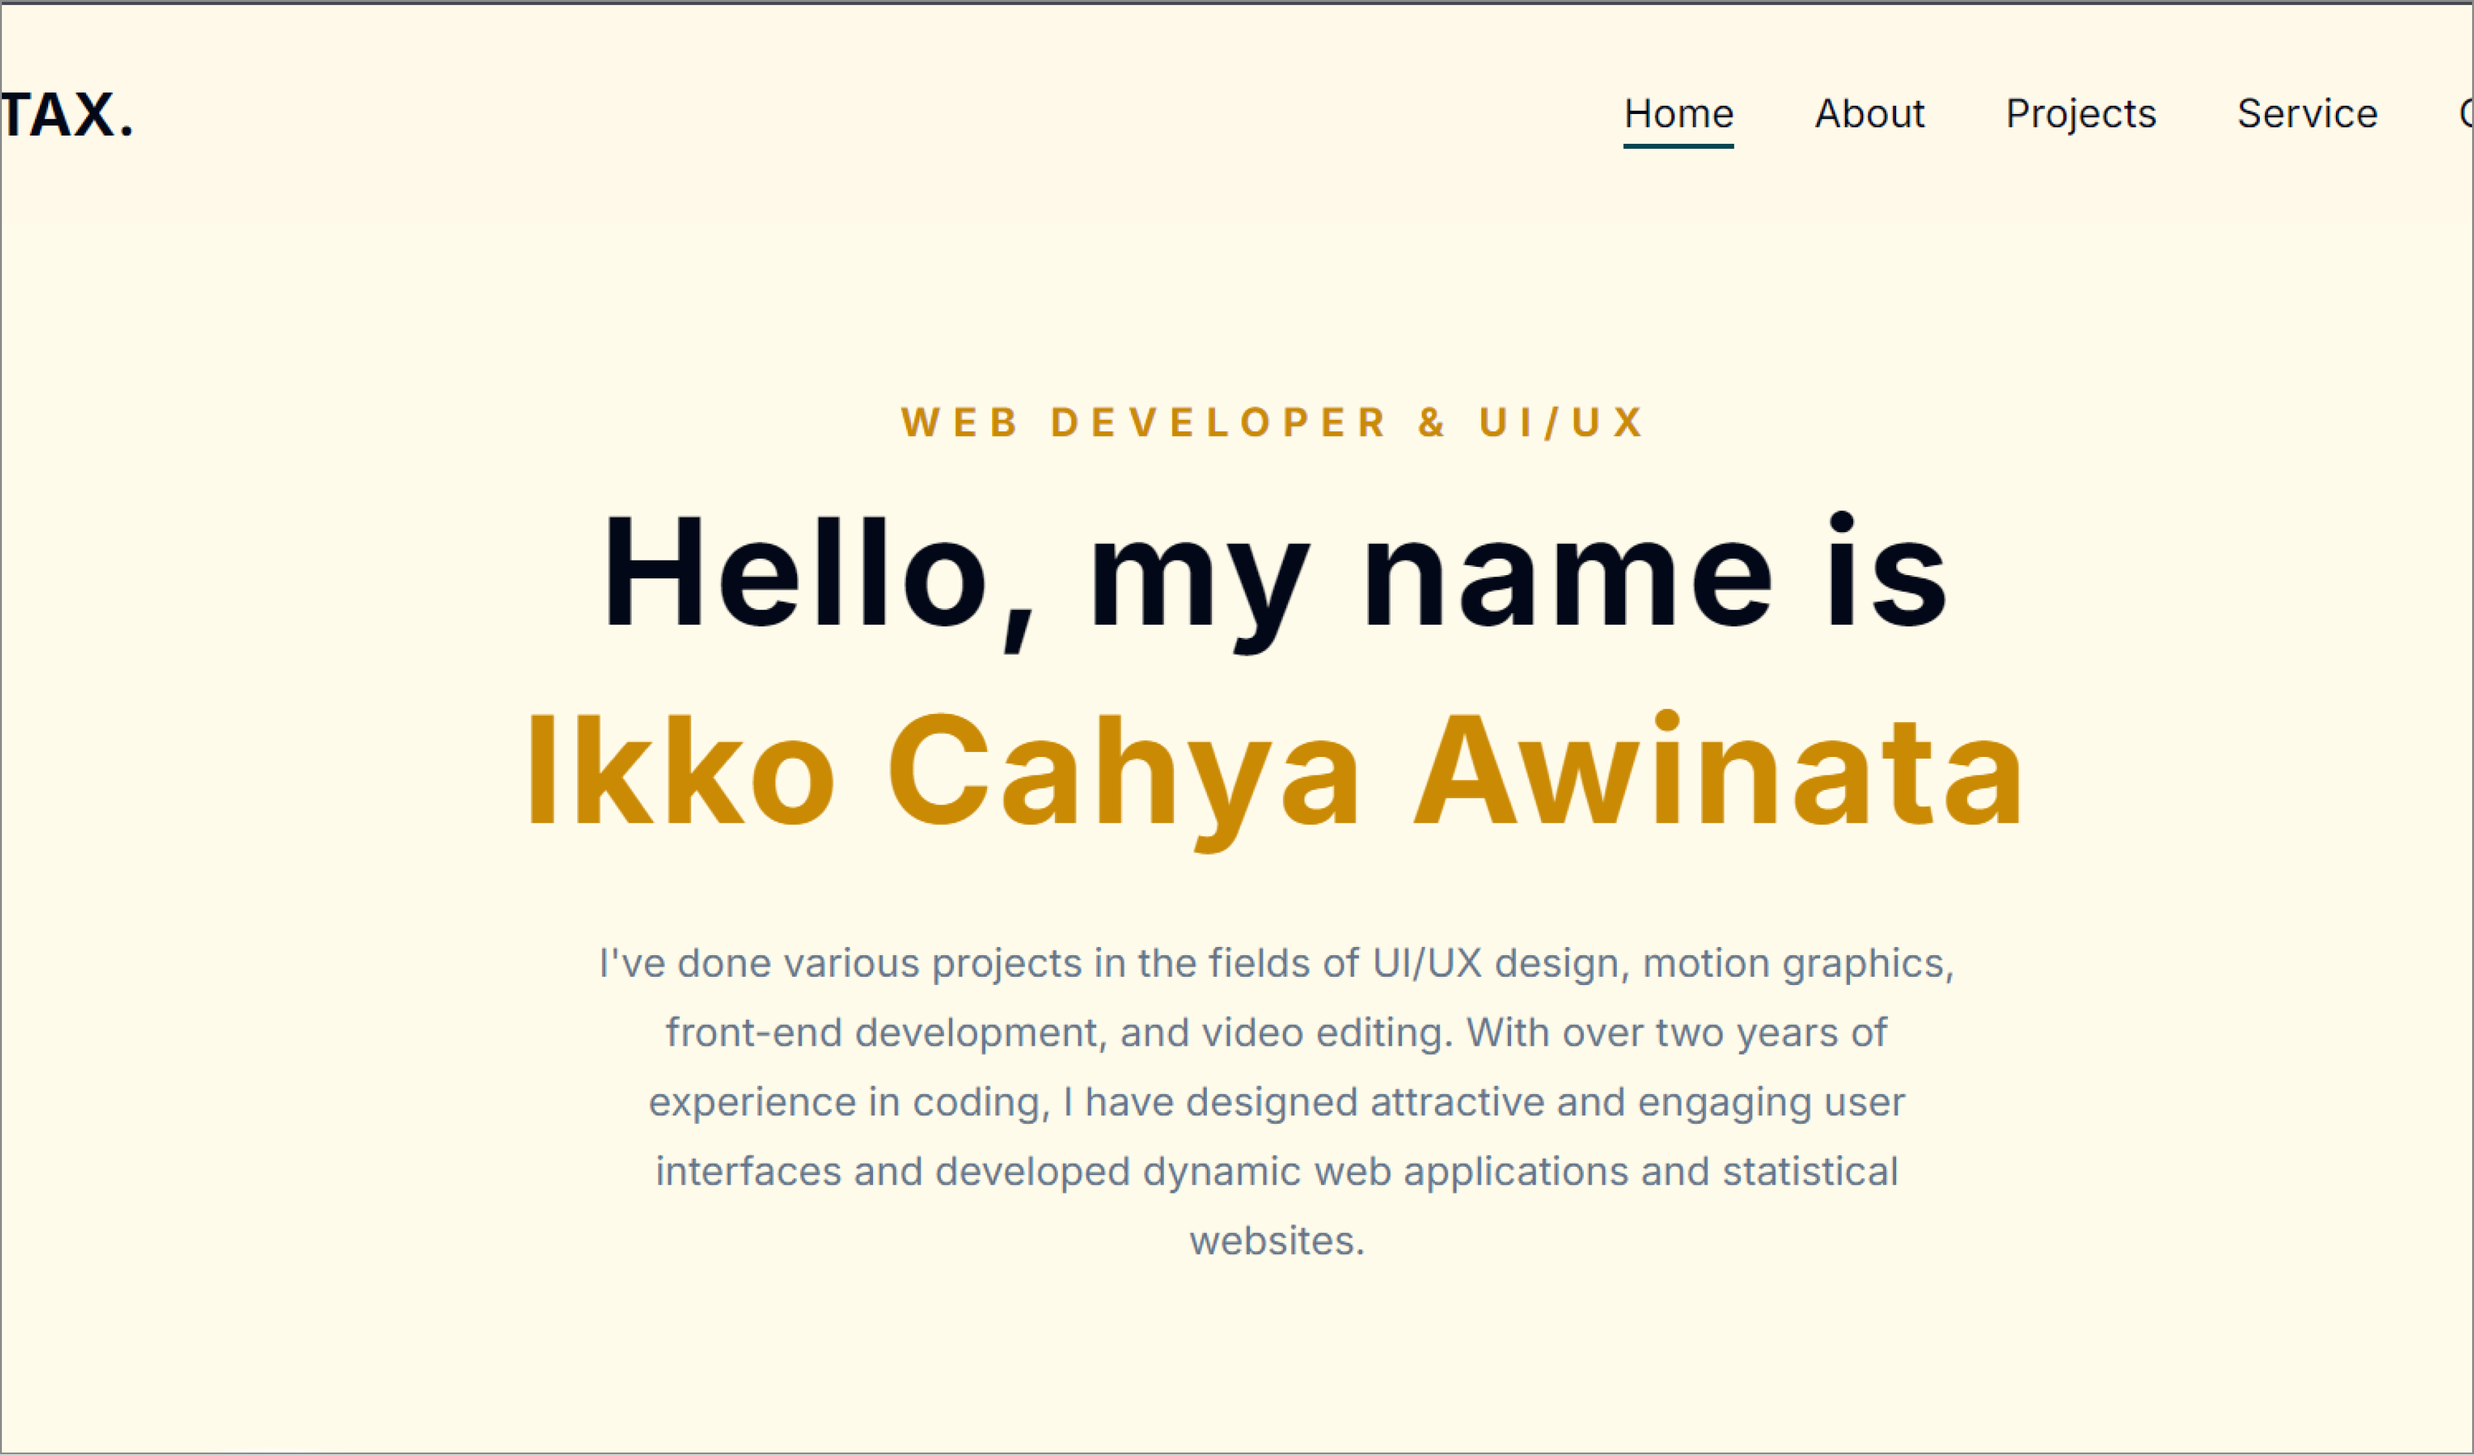
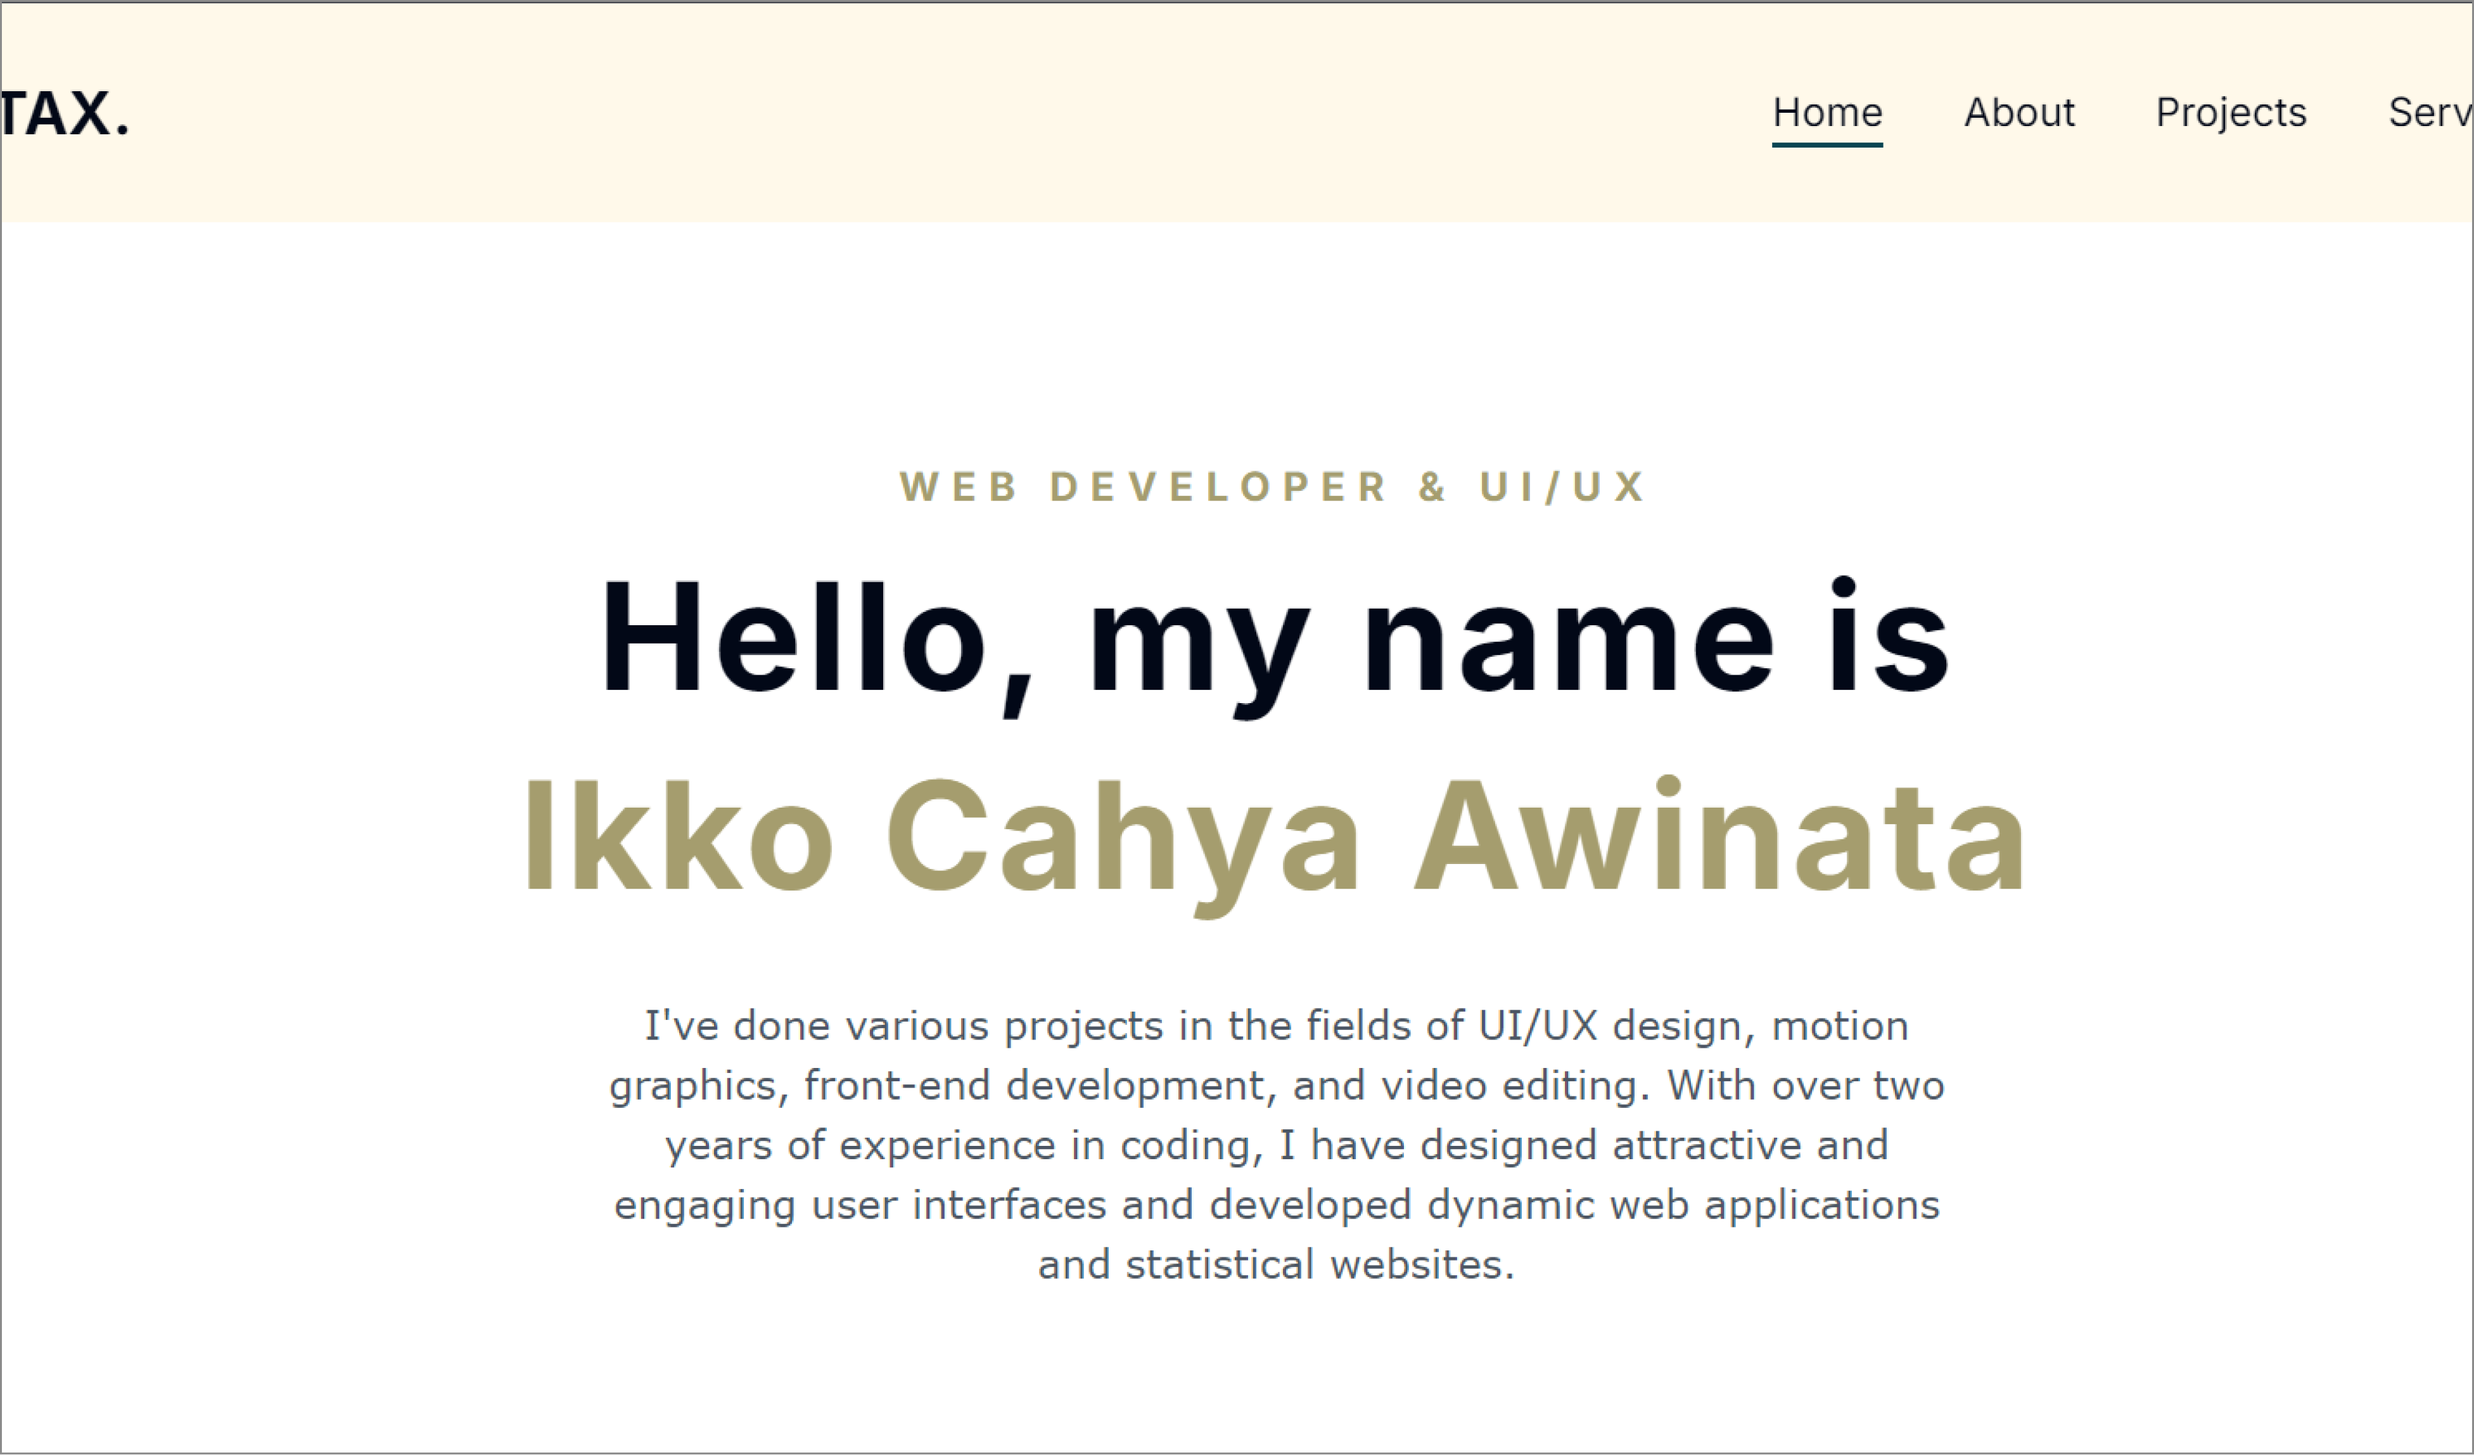
fiks

Changed region(s): [[0.1875, 0.2782, 0.8435, 0.8964], [0.6561, 0.0618, 0.9997, 0.1236], [0.0, 0.0618, 0.0625, 0.0927]]

diff --git a/app/design2/page.jsx b/app/design2/page.jsx
@@ -1,10 +1,79 @@
+// "use client"; // This should be at the top of the file
+
+// import { Button } from "@/components/ui/button";
+// import Link from "next/link"; // Import Link for navigation
+// import { useState } from "react"; // Import useState to manage state
+// import { ChevronRight } from "lucide-react"; // Import ChevronRight icon
+// import Card from "@/components/Card"; // If you're using this, ensure it's used in the component
+// import "./computer.css";
+// import Image from "next/image";
+
+// const Candidates = () => {
+//   // State for storing the clicked button information
+//   const [clickedButton, setClickedButton] = useState(null);
+
+//   return (
+//     <>
+//       <section className="py-2 md:py-6 xl:py-10 h-[140vh] md:h-[120vh] xl:h-[140vh] xl:pt-10 bg-no-repeat bg-bottom dark:bg-none relative flex items-center justify-center">
+//         <div className="flex flex-col items-center text-center">
+//           {/* Image with Description */}
+//           <div className="w-full max-w-md mx-auto p-4 md:p-6 xl:p-8">
+//             <img
+//               src="./hero/port3.png"
+//               alt="Descriptive Alt Text"
+//               className="w-full h-auto object-cover"
+//             />
+//             <p className="mt-4 md:mt-6 xl:mt-8 text-md font-light text-gray-700 dark:text-gray-300 text-justify">
+//               Organized by the GEMA UNESA Campus Press Institute with the theme
+//               "Take Your Infographic to the Next Level with Illustrations"
+//             </p>
+//             <p className="mt-8 md:mt-10 xl:mt-12 text-sm font-bold text-gray-700 dark:text-gray-300 text-justify">
+//               • 25 June 2022
+//             </p>
+//           </div>
+
+//           <div className="absolute top-4 left-4 md:top-8 md:left-8">
+//             <Link href="/projects">
+//               <Button
+//                 variant="outline"
+//                 size="icon"
+//                 className="flex items-center bg-gray-300 dark:bg-gray-700"
+//               >
+//                 <ChevronRight className="h-4 w-4 transform rotate-180" />
+//               </Button>
+//             </Link>
+//           </div>
+//         </div>
+//       </section>
+
+//       {/* Additional Section */}
+//       <section className="py-2 md:py-4 xl:py-40 h-auto md:h-auto xl:h-auto xl:pt-0 bg-no-repeat bg-bottom dark:bg-none relative flex items-center justify-center">
+//         <div className="w-full max-w-xs sm:max-w-sm md:max-w-md lg:max-w-lg mx-auto p-1 md:p-3 xl:p-5">
+//           <img
+//             src="./hero/sertif1.png"
+//             alt="Another Descriptive Alt Text"
+//             className="w-full h-auto object-cover"
+//           />
+//           <p className="mt-4 md:mt-6 xl:mt-8 text-md font-light text-gray-700 dark:text-gray-300 text-justify">
+//             Organized by the GEMA UNESA Campus Press Institute with the theme
+//             "Take Your Infographic to the Next Level with Illustrations"
+//           </p>
+//         </div>
+//       </section>
+//     </>
+//   );
+// };
+
+// export default Candidates;
+
+
+
 "use client"; // This should be at the top of the file
 
 import { Button } from "@/components/ui/button";
 import Link from "next/link"; // Import Link for navigation
 import { useState } from "react"; // Import useState to manage state
 import { ChevronRight } from "lucide-react"; // Import ChevronRight icon
-import Card from "@/components/Card"; // If you're using this, ensure it's used in the component
 import "./computer.css";
 import Image from "next/image";
 
@@ -14,22 +83,28 @@ const Candidates = () => {
 
   return (
     <>
-      <section className="py-2 md:py-6 xl:py-10 h-[140vh] md:h-[120vh] xl:h-[140vh] xl:pt-10 bg-no-repeat bg-bottom dark:bg-none relative flex items-center justify-center">
+      <section className="py-2 md:py-4 xl:py-6 h-[140vh] md:h-[120vh] xl:h-[130vh] xl:pt-8 bg-no-repeat bg-bottom dark:bg-none relative flex items-center justify-center">
         <div className="flex flex-col items-center text-center">
           {/* Image with Description */}
-          <div className="w-full max-w-md mx-auto p-4 md:p-6 xl:p-8">
+          <div className="w-full max-w-md mx-auto p-3 md:p-4 xl:p-6">
             <img
               src="./hero/port3.png"
               alt="Descriptive Alt Text"
               className="w-full h-auto object-cover"
             />
-            <p className="mt-4 md:mt-6 xl:mt-8 text-md font-light text-gray-700 dark:text-gray-300 text-justify">
+            <p className="mt-4 md:mt-5 xl:mt-6 text-md font-light text-gray-700 dark:text-gray-300 text-justify">
               Organized by the GEMA UNESA Campus Press Institute with the theme
               "Take Your Infographic to the Next Level with Illustrations"
             </p>
-            <p className="mt-8 md:mt-10 xl:mt-12 text-sm font-bold text-gray-700 dark:text-gray-300 text-justify">
+            <img
+            src="./hero/sertif1.png"
+            alt="Another Descriptive Alt Text"
+            className="w-full h-auto object-cover"
+          />
+            <p className="mt-6 md:mt-8 xl:mt-10 text-sm font-bold text-gray-700 dark:text-gray-300 text-justify">
               • 25 June 2022
             </p>
+            
           </div>
 
           <div className="absolute top-4 left-4 md:top-8 md:left-8">
@@ -47,17 +122,17 @@ const Candidates = () => {
       </section>
 
       {/* Additional Section */}
-      <section className="py-2 md:py-4 xl:py-40 h-auto md:h-auto xl:h-auto xl:pt-0 bg-no-repeat bg-bottom dark:bg-none relative flex items-center justify-center">
-        <div className="w-full max-w-xs sm:max-w-sm md:max-w-md lg:max-w-lg mx-auto p-1 md:p-3 xl:p-5">
-          <img
+      <section className="py-2 md:py-4 xl:py-6 h-auto md:h-auto xl:h-auto xl:pt-0 bg-no-repeat bg-bottom dark:bg-none relative flex items-center justify-center">
+        <div className="w-full max-w-xs sm:max-w-sm md:max-w-md lg:max-w-lg mx-auto p-2 md:p-3 xl:p-4">
+          {/* <img
             src="./hero/sertif1.png"
             alt="Another Descriptive Alt Text"
             className="w-full h-auto object-cover"
-          />
-          <p className="mt-4 md:mt-6 xl:mt-8 text-md font-light text-gray-700 dark:text-gray-300 text-justify">
+          /> */}
+          {/* <p className="mt-4 md:mt-5 xl:mt-6 text-md font-light text-gray-700 dark:text-gray-300 text-justify">
             Organized by the GEMA UNESA Campus Press Institute with the theme
             "Take Your Infographic to the Next Level with Illustrations"
-          </p>
+          </p> */}
         </div>
       </section>
     </>

diff --git a/app/projects/page.jsx b/app/projects/page.jsx
@@ -464,9 +464,9 @@ const posts = [
   {
     id: 12,
     title: "Second Personal Website Development",
-    href: "",
+    href: "https://ikkoawinata.github.io/awinata/",
     description:
-      " - ",
+      " Build development from the first personal website before. This project using NextJS, Tailwind, Framer Motion for little animation view",
     date: "September 5, 2024",
     datetime: "2024-08  -10",
     category: { title: "More", href: "" },
@@ -476,7 +476,24 @@ const posts = [
       href: "",
       imageUrl: "./hero/web2.png", // Gambar placeholder
     },
-    marketingTags: ["Reactjs", "Tailwind", "Framer Motion"], // Menambahkan tag marketing sebagai contoh
+    marketingTags: ["Reactjs", "Tailwind", "Framer Motion", "NextJS"], // Menambahkan tag marketing sebagai contoh
+  },
+  {
+    id: 29,
+    title: "Currency Converter",
+    href: "https://ikkoawinata.github.io/matauang/",
+    description:
+      "This project was created using ReactJS and Tailwind framework. This project is to convert money from several currencies in the world",
+    date: "August 27, 2024",
+    datetime: "2024-08  -10",
+    category: { title: "More", href: "https://ikkoawinata.github.io/matauang/" },
+    author: {
+      name: "Michael Foster",
+      role: "Co-Founder / CTO",
+      href: "",
+      imageUrl: "./hero/matauang.png", // Gambar placeholder
+    },
+    marketingTags: ["Reactjs", "Tailwind"], // Menambahkan tag marketing sebagai contoh
   },
 ];
 

diff --git a/app/tentang/page.jsx b/app/tentang/page.jsx
@@ -375,7 +375,7 @@ import { FaReact } from "react-icons/fa";
 import { SiAdobepremierepro } from "react-icons/si";
 import { FaVuejs } from "react-icons/fa";
 import { SiTailwindcss } from "react-icons/si";
-import { SiPhp } from "react-icons/si";
+import { RiNextjsFill } from "react-icons/ri";
 import { FaBootstrap } from "react-icons/fa";
 import { SiWondersharefilmora } from "react-icons/si";
 import { FaGitAlt } from "react-icons/fa6";
@@ -386,6 +386,7 @@ import { IoLogoVercel } from "react-icons/io5";
 import { SiVisualstudiocode } from "react-icons/si";
 import { SiMysql } from "react-icons/si";
 import { usePathname } from "next/navigation";
+import Image from "next/image";
 
 
 
@@ -489,7 +490,7 @@ const BrandingSection = () => {
         <SiTailwindcss className="text-4xl-skill hover:transform hover:scale-110  transition-all duration-300 ease-in-out" />
       </div>
       <div className="flex justify-center items-center">
-        <SiPhp className="text-4xl-skill hover:transform hover:scale-110  transition-all duration-300 ease-in-out" />
+        <RiNextjsFill className="text-4xl-skill hover:transform hover:scale-110  transition-all duration-300 ease-in-out" />
       </div>
       <div className="flex justify-center items-center">
         <FaBootstrap className="text-4xl-skill hover:transform hover:scale-110  transition-all duration-300 ease-in-out" />

diff --git a/components/Card.jsx b/components/Card.jsx
@@ -4,7 +4,7 @@ const Card = ({ post }) => {
   const staticTags = ['Marketing', 'Trending', 'Featured'];
 
   return (
-    <article className="relative flex max-w-xl flex-col items-start justify-between border border-gray-200 dark:border-gray-700 rounded-lg p-4 bg-white dark:bg-gray-800 shadow-md dark:shadow-lg transition-transform transform hover:scale-105 hover:shadow-lg duration-300">
+    <article className="relative flex max-w-xl flex-col items-start justify-between border border-gray-200 dark:border-gray-700 rounded-lg p-4 bg-zinc-100 dark:bg-gray-800 shadow-md dark:shadow-lg transition-transform transform hover:scale-105 hover:shadow-lg duration-300">
       <div className="flex items-center gap-x-4 text-xs">
         <time dateTime={post.datetime} className="text-gray-500 dark:text-gray-400">
           {post.date}

diff --git a/components/Socials.jsx b/components/Socials.jsx
@@ -21,23 +21,23 @@ const icons = [
   //   name: <LuFigma />,
   // },
   {
-    path: "/",
+    path: "https://www.linkedin.com/in/ikko-cahya-awinata-182926253/",
     name: <RiLinkedinFill />,
   },
   {
-    path: "/",
+    path: "https://github.com/ikkoawinata",
     name: <RiGithubFill />,
   },
   {
-    path: "/",
+    path: "https://www.behance.net/gallery/198231291/Sengoku-Basara-(UI-Design)",
     name: <RiBehanceFill />,
   },
   {
-    path: "/",
+    path: "https://www.instagram.com/ikkoc_awinata/",
     name: <RiInstagramFill />,
   },
   {
-    path: "/",
+    path: "mailto:ikkocahyaawinata@gmail.com",
     name: <RiMailFill />,
   },
 ];

diff --git a/app/home/page.jsx b/app/home/page.jsx
@@ -52,7 +52,7 @@ import "/app/home/tentang.css";
 
 const Hero = () => {
   return (
-    <section className="py-12 xl:py-24 h-[100vh] xl:pt-9 bg-hero bg-no-repeat bg-bottom bg-cover dark:bg-none flex items-center justify-center">
+    <section className="py-12 xl:py-24 h-[100vh] xl:pt-9 bg-[#ffffff] bg-no-repeat bg-bottom bg-cover dark:bg-none flex items-center justify-center">
       <div className="container mx-auto flex flex-col items-center text-center">
         <div className="text-md uppercase font-bold mb-2 text-yellow-600 dark:text-primary tracking-[5px]">
           Web Developer & UI/UX

diff --git a/components/Hero.jsx b/components/Hero.jsx
@@ -85,7 +85,7 @@ import Badge from "@/components/Badge"; // Pastikan jalur ini benar
 import Socials from "@/components/Socials"; // Pastikan jalur ini benar
 import { RiArrowDownSLine } from "react-icons/ri";
 import Image from "next/image";
-import "/app/home/tentang.css";
+import "./hero.css";
 
 
 const Hero = () => {

diff --git a/app/projects/styles.css b/app/projects/styles.css
@@ -39,6 +39,7 @@
   .card-container {
     position: relative;
     overflow: hidden;
+    
   }
   
   .card-image {

diff --git a/components/hero.css b/components/hero.css
@@ -1,0 +1,3 @@
+.bg-hero {
+    background-image: url(/public/hero/wave-bg.png);
+}
